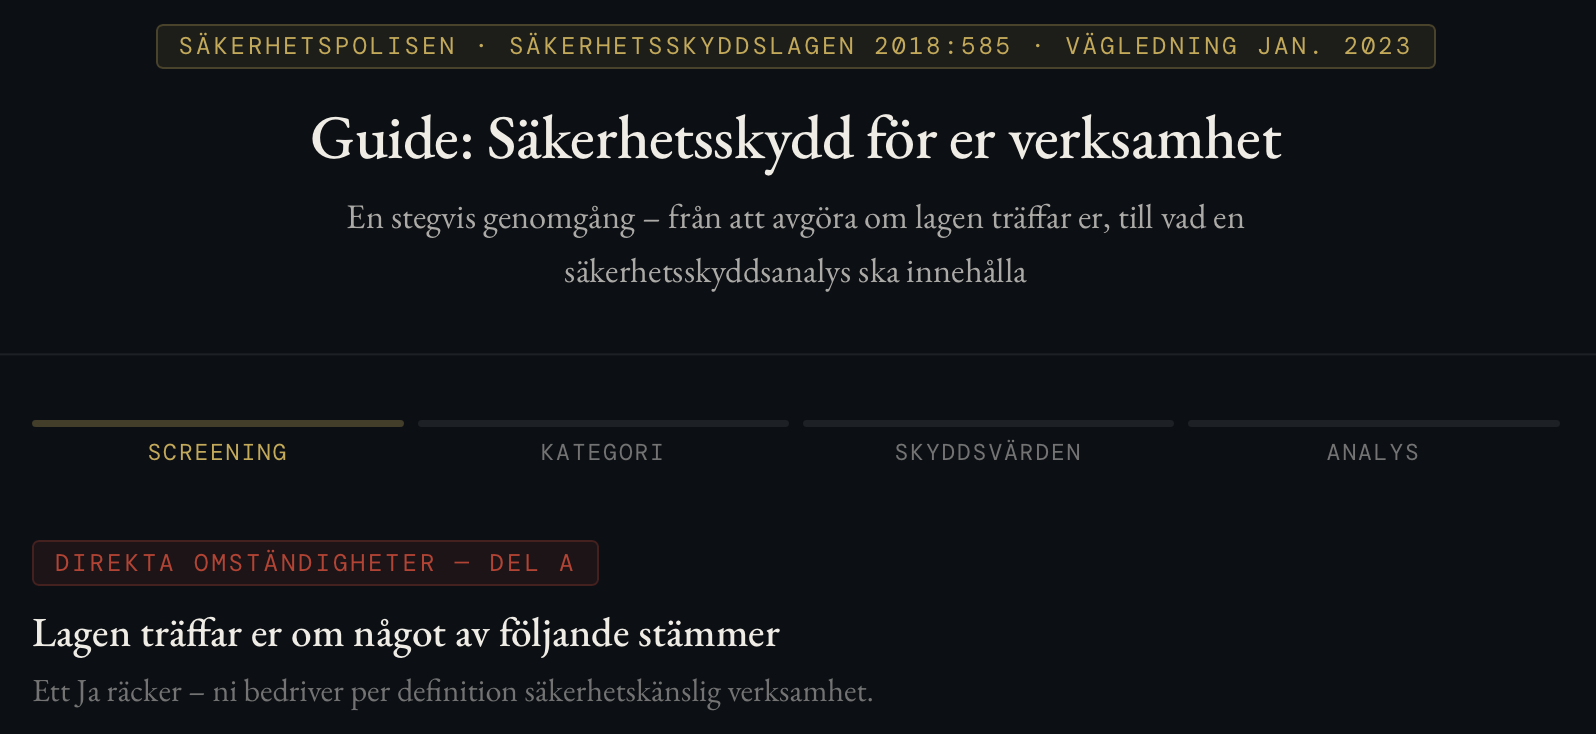
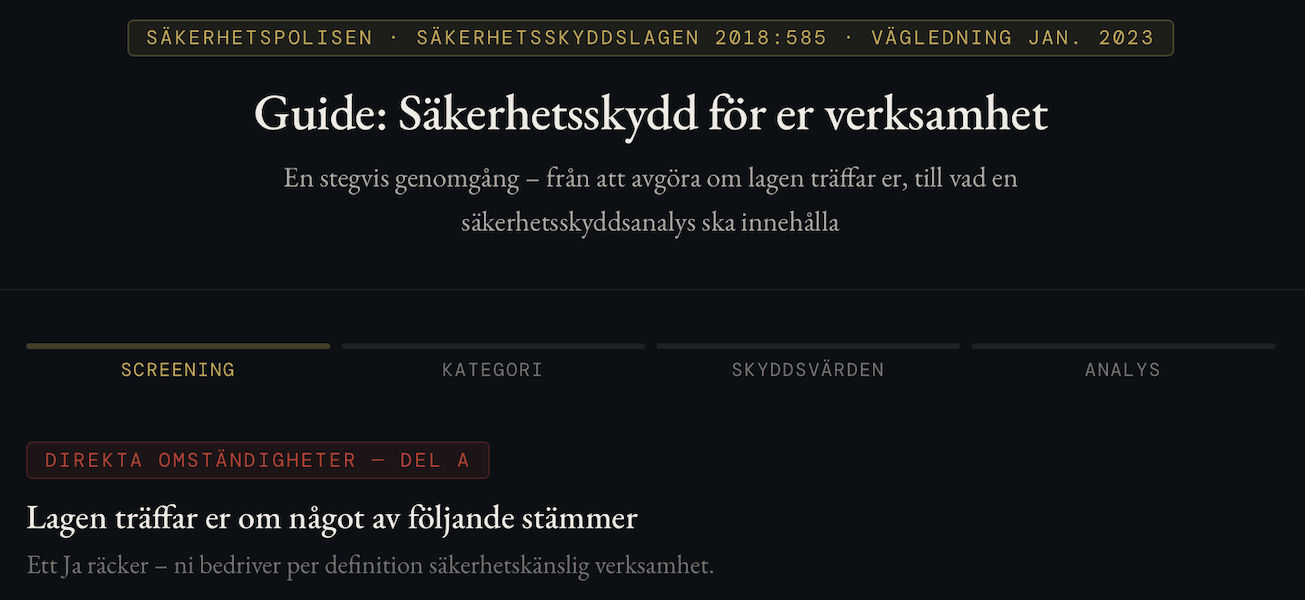
minor changes

diff --git a/index.html b/index.html
@@ -4,12 +4,12 @@
     <meta charset="UTF-8" />
     <meta name="viewport" content="width=device-width, initial-scale=1.0" />
 
-    <title>Sakskydd — Guide: Säkerhetsskydd för er verksamhet</title>
+    <title>Säkskydd - Guide: Säkerhetsskyddsanalys för er verksamhet</title>
     <meta name="description" content="Stegvis guide för att avgöra om säkerhetsskyddslagen träffar er verksamhet och vad en säkerhetsskyddsanalys ska innehålla. Baserad på Säkerhetspolisens vägledning." />
     <meta name="author" content="Erik Eliasson" />
 
     <!-- Canonical -->
-    <link rel="canonical" href="https://sakskydd.se" />
+    <link rel="canonical" href="https://sakskydd.121eliasson.workers.dev" />
 
     <!-- Favicon -->
     <link rel="icon" type="image/svg+xml" href="/favicon.svg" />
@@ -25,13 +25,13 @@
 
     <!-- Open Graph -->
     <meta property="og:type" content="website" />
-    <meta property="og:url" content="https://sakskydd.se" />
-    <meta property="og:title" content="Sakskydd — Guide: Säkerhetsskydd för er verksamhet" />
+    <meta property="og:url" content="https://sakskydd.121eliasson.workers.dev" />
+    <meta property="og:title" content="Säkskydd - Guide: Säkerhetsskyddsanalys för er verksamhet" />
     <meta property="og:description" content="Stegvis guide för att avgöra om säkerhetsskyddslagen träffar er verksamhet och vad en säkerhetsskyddsanalys ska innehålla. Baserad på Säkerhetspolisens vägledning." />
     <meta property="og:site_name" content="Sakskydd" />
     <meta property="og:locale" content="sv_SE" />
-    <meta property="og:image" content="https://sakskydd.se/og-image.png" />
-    <meta property="og:image:secure_url" content="https://sakskydd.se/og-image.png" />
+    <meta property="og:image" content="https://sakskydd.121eliasson.workers.dev/og-image.png" />
+    <meta property="og:image:secure_url" content="https://sakskydd.121eliasson.workers.dev/og-image.png" />
     <meta property="og:image:type" content="image/png" />
     <meta property="og:image:width" content="1596" />
     <meta property="og:image:height" content="734" />
@@ -39,9 +39,9 @@
 
     <!-- Twitter Card -->
     <meta name="twitter:card" content="summary_large_image" />
-    <meta name="twitter:title" content="Sakskydd — Guide: Säkerhetsskydd för er verksamhet" />
+    <meta name="twitter:title" content="Säkskydd - Guide: Säkerhetsskyddsanalys för er verksamhet" />
     <meta name="twitter:description" content="Stegvis guide för att avgöra om säkerhetsskyddslagen träffar er verksamhet och vad en säkerhetsskyddsanalys ska innehålla." />
-    <meta name="twitter:image" content="https://sakskydd.se/og-image.png" />
+    <meta name="twitter:image" content="https://sakskydd.121eliasson.workers.dev/og-image.png" />
   </head>
   <body>
     <div id="root"></div>

diff --git a/src/App.tsx b/src/App.tsx
@@ -305,7 +305,7 @@ export default function App() {
         <div style={{ borderBottom: `1px solid ${C.border}`, padding: "32px 20px 24px", textAlign: "center" }}>
           <Tag>Säkerhetspolisen · Säkerhetsskyddslagen 2018:585 · Vägledning jan. 2023</Tag>
           <h1 style={{ margin: "12px 0 6px", fontSize: "clamp(20px,4vw,27px)", fontWeight: 500, letterSpacing: "-0.01em" }}>
-            Guide: Säkerhetsskydd för er verksamhet
+            Guide: Säkerhetsskyddsanalys för er verksamhet
           </h1>
           <p style={{ margin: 0, fontSize: 15, color: C.textMid, lineHeight: 1.6, maxWidth: 480, marginInline: "auto", padding: "0 10px" }}>
             En stegvis genomgång – från att avgöra om lagen träffar er, till vad en säkerhetsskyddsanalys ska innehålla
